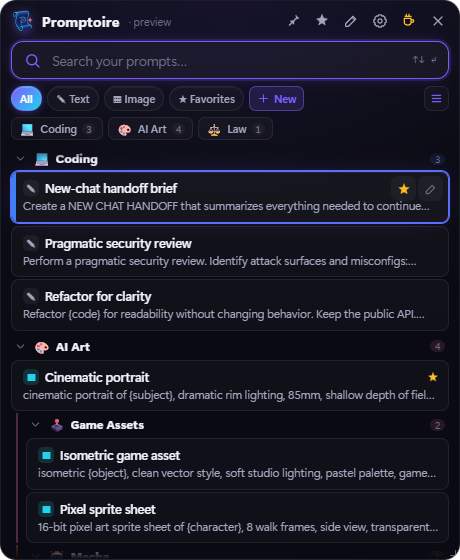
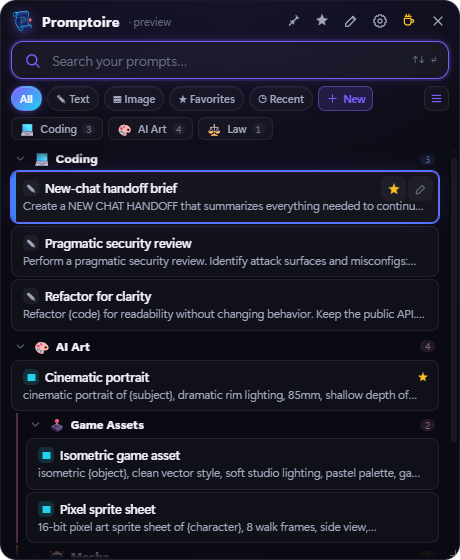
Release Promptoire 2.5.0

diff --git a/promptoire_app/web/js/bridge.js b/promptoire_app/web/js/bridge.js
@@ -63,12 +63,12 @@
 
   const mockCats = [
     { id: "cat_code", name: "Coding", icon: "💻", color: "#3b82f6", collapsed:false, subcategories:[], prompts: [
-      { id: mkId("handoff"), type:"text", title:"New-chat handoff brief", prompt:"Create a NEW CHAT HANDOFF that summarizes everything needed to continue immediately: objective, current state, constraints, decisions, key files/paths, commands to run, known bugs, and next steps in priority order.", tags:["workflow","context"], note:"", favorite:true, uses:12 },
+      { id: mkId("handoff"), type:"text", title:"New-chat handoff brief", prompt:"Create a NEW CHAT HANDOFF that summarizes everything needed to continue immediately: objective, current state, constraints, decisions, key files/paths, commands to run, known bugs, and next steps in priority order.", tags:["workflow","context"], note:"", favorite:true, uses:12, last_used:"2026-08-02T04:40:00+00:00" },
       { id: mkId("secrev"), type:"text", title:"Pragmatic security review", prompt:"Perform a pragmatic security review. Identify attack surfaces and misconfigs: injection, authz/authn flaws, secrets leakage, insecure defaults, dependency risks, PII handling. Provide prioritized, minimal-scope fixes.", tags:["security"], note:"", favorite:false, uses:5 },
       { id: mkId("refactor"), type:"text", title:"Refactor for clarity", prompt:"Refactor {code} for readability without changing behavior. Keep the public API. Explain each change in one line.", tags:["refactor"], note:"", favorite:false, uses:2 },
     ]},
     { id: "cat_art", name: "AI Art", icon: "🎨", color: "#f472b6", collapsed:false, prompts: [
-      { id: mkId("cinematic"), type:"image", title:"Cinematic portrait", prompt:"cinematic portrait of {subject}, dramatic rim lighting, 85mm, shallow depth of field, film grain, moody color grade", negative:"blurry, lowres, extra fingers, watermark", model:"Midjourney v6", params:"--ar 4:5 --stylize 250", tags:["portrait","cinematic"], note:"", favorite:true, uses:9 },
+      { id: mkId("cinematic"), type:"image", title:"Cinematic portrait", prompt:"cinematic portrait of {subject}, dramatic rim lighting, 85mm, shallow depth of field, film grain, moody color grade", negative:"blurry, lowres, extra fingers, watermark", model:"Midjourney v6", params:"--ar 4:5 --stylize 250", tags:["portrait","cinematic"], note:"", favorite:true, uses:9, last_used:"2026-08-02T04:25:00+00:00" },
     ], subcategories: [
       { id: "cat_iso", name: "Game Assets", icon: "🕹", color: "", collapsed:false, subcategories:[], prompts: [
         { id: mkId("iso"), type:"image", title:"Isometric game asset", prompt:"isometric {object}, clean vector style, soft studio lighting, pastel palette, game asset, centered", negative:"text, busy background", model:"SDXL", params:"Steps: 30, CFG: 6", tags:["isometric","asset"], note:"", favorite:false, uses:3 },
@@ -79,7 +79,7 @@
       ]},
     ]},
     { id: "cat_law", name: "Law", icon: "⚖", color: "#34d399", collapsed:false, subcategories:[], prompts: [
-      { id: mkId("clause"), type:"text", title:"Contract clause explainer", prompt:"Explain the following clause in plain English, flag risks for the {party}, and suggest safer alternative language.", tags:["contracts"], note:"", favorite:false, uses:1 },
+      { id: mkId("clause"), type:"text", title:"Contract clause explainer", prompt:"Explain the following clause in plain English, flag risks for the {party}, and suggest safer alternative language.", tags:["contracts"], note:"", favorite:false, uses:1, last_used:"2026-08-01T22:10:00+00:00" },
     ]},
   ];
   const mockSettings = {
@@ -95,7 +95,7 @@
   function walk(cats, path, color){ let out=[]; path=path||[]; for(const c of cats){ const eff=c.color||color||""; const here=path.concat([c.name]); for(const p of c.prompts){ out.push({p,c,path:here,color:eff}); } if(c.subcategories) out=out.concat(walk(c.subcategories, here, eff)); } return out; }
 
   const MOCK = {
-    get_state: () => ({ ok:true, categories: mockCats, stats: stats(), version:"2.4.0-preview",
+    get_state: () => ({ ok:true, categories: mockCats, stats: stats(), version:"2.5.0-preview",
       hotkey_available:true, platform:"windows",
       settings: mockSettings }),
     search: (q="", type="all", fav=false) => {
@@ -115,7 +115,12 @@
       res.sort((a,b)=>(b.favorite?1:0)-(a.favorite?1:0));
       return { ok:true, results:res, count:res.length };
     },
-    copy_prompt: (id, resolved, keepOpen) => ({ ok:true, spring:!keepOpen, title:"Prompt" }),
+    copy_prompt: (id, resolved, keepOpen) => {
+      for(const {p} of walk(mockCats)){
+        if(p.id===id){ p.uses=(p.uses||0)+1; p.last_used=new Date().toISOString(); return {ok:true,spring:!keepOpen,title:p.title,last_used:p.last_used}; }
+      }
+      return {ok:false,error:"Prompt not found"};
+    },
     copy_text: () => ({ ok:true }),
     get_clipboard_text: () => ({ ok:true, text:"Path: AI Art > Characters > Portraits\nTitle: Cinematic portrait\nType: image\nPrompt: A dramatic 85mm portrait of {subject}, rim lighting, shallow depth of field --ar 4:5 --stylize 250\nTags: portrait, cinematic" }),
     toggle_favorite: (id) => { for(const {p} of walk(mockCats)){ if(p.id===id){ p.favorite=!p.favorite; return {ok:true,favorite:p.favorite}; } } return {ok:false}; },

diff --git a/promptoire_app/web/js/launcher.js b/promptoire_app/web/js/launcher.js
@@ -122,6 +122,7 @@
 
   function setFilter(f) {
     PR.state.filter = f;
+    if (f === "recent") PR.state.catFilter = null;
     document.querySelectorAll("#filters .chip").forEach((c) =>
       c.classList.toggle("is-active", c.dataset.filter === f));
     runSearch();
@@ -143,7 +144,34 @@
     const f = PR.state.filter;
     if (f === "text" || f === "image") return (p.type || "text") === f;
     if (f === "favorites") return !!p.favorite;
+    if (f === "recent") return !!p.last_used;
     return true;
+  }
+
+  function recentHits() {
+    const hits = [];
+    function walk(cats, path, inheritedColor) {
+      (cats || []).forEach((cat) => {
+        const color = cat.color || inheritedColor || "";
+        const here = path.concat([cat.name]);
+        (cat.prompts || []).forEach((p) => {
+          if (!p.last_used) return;
+          hits.push(Object.assign({}, p, {
+            category_id: cat.id,
+            category_name: cat.name,
+            category_color: color,
+            category_icon: cat.icon || "",
+            path: here,
+          }));
+        });
+        walk(cat.subcategories, here, color);
+      });
+    }
+    walk(PR.state.categories, [], "");
+    hits.sort((a, b) =>
+      String(b.last_used).localeCompare(String(a.last_used)) ||
+      String(a.title || "").localeCompare(String(b.title || "")));
+    return hits;
   }
 
   // ids of a category and all its descendants (for search-mode cat filtering)
@@ -166,6 +194,12 @@
     const { query, filter } = PR.state;
     renderRail();
     if (!query.trim()) {
+      if (filter === "recent") {
+        PR.state.results = recentHits();
+        PR.state.selected = 0;
+        renderFlat();
+        return;
+      }
       renderBrowse();
       return;
     }
@@ -173,6 +207,11 @@
     const typeFilter = filter === "text" || filter === "image" ? filter : "all";
     const res = await PR.bridge.call("search", query, typeFilter, favOnly, "");
     let hits = (res && res.results) || [];
+    if (filter === "recent") {
+      hits = hits.filter((h) => h.last_used).sort((a, b) =>
+        String(b.last_used).localeCompare(String(a.last_used)) ||
+        String(a.title || "").localeCompare(String(b.title || "")));
+    }
     if (PR.state.catFilter) {
       const top = findTopCat(PR.state.catFilter);
       if (top) {
@@ -190,8 +229,9 @@
   function renderRail() {
     const cats = PR.state.categories || [];
     railEl.innerHTML = "";
-    railEl.classList.toggle("hidden", cats.length < 2);
-    if (cats.length < 2) return;
+    const hidden = cats.length < 2 || PR.state.filter === "recent";
+    railEl.classList.toggle("hidden", hidden);
+    if (hidden) return;
     cats.forEach((c) => {
       const n = countTree(c);
       const chip = el("button", {
@@ -316,6 +356,13 @@
   }
 
   function emptyState(query) {
+    if (PR.state.filter === "recent" && !query) {
+      return el("div", { class: "empty" }, [
+        el("div", { class: "emoji", text: "◷" }),
+        el("h3", { text: "No recent prompts yet" }),
+        el("p", { text: "Copied prompts appear here automatically, newest first." }),
+      ]);
+    }
     if (PR.state.filter === "favorites" && !query) {
       return el("div", { class: "empty" }, [
         el("div", { class: "emoji", text: "★" }),
@@ -433,8 +480,11 @@
   async function doCopy(id, text, node, title) {
     const r = await PR.bridge.call("copy_prompt", id, text, PR.state.pinned);
     if (r && r.ok) {
+      const local = PR.findPrompt(id);
+      if (local && r.last_used) local.p.last_used = r.last_used;
       if (node) { node.classList.add("flash"); setTimeout(() => node && node.classList.remove("flash"), 520); }
       toast("Copied “" + (title || "prompt") + "”");
+      if (PR.state.filter === "recent" && PR.state.pinned) runSearch(false);
     } else {
       toast((r && r.error) || "Copy failed", { bad: true });
     }

diff --git a/docs/smartscreen.html b/docs/smartscreen.html
@@ -1,7 +1,7 @@
 <!doctype html><html lang="en"><head><meta charset="utf-8"><meta name="viewport" content="width=device-width,initial-scale=1"><title>Windows trust and SmartScreen — Promptoire</title><meta name="description" content="How to verify Promptoire releases and what Windows SmartScreen warnings mean."><link rel="icon" href="data:,"><link rel="stylesheet" href="styles.css"></head>
 <body class="doc-page"><header class="site-header"><a class="brand" href="index.html"><span class="brand-mark">P</span><span>Promptoire</span></a><nav><a href="index.html">← Website</a><a href="https://github.com/diddlysquatt/Promptoire">GitHub</a></nav></header>
 <main class="doc-shell wrap"><div class="eyebrow"><span></span> Windows trust</div><h1>Verify first.<br><em>Then run.</em></h1><p class="doc-intro">Windows may show “Unknown publisher” for an unsigned Promptoire release. That warning reflects missing reputation, not a finding that the app is malicious.</p>
-<section><h2>Verify the release</h2><ol><li>Download only from <a href="https://github.com/diddlysquatt/Promptoire/releases/latest">the official GitHub release</a>.</li><li>Keep the ZIP and its published <code>.sha256.txt</code> file together.</li><li>Run the command below and confirm the hashes match exactly.</li></ol><pre><code>Get-FileHash .\Promptoire-2.4.0-windows-x64.zip -Algorithm SHA256</code></pre></section>
+<section><h2>Verify the release</h2><ol><li>Download only from <a href="https://github.com/diddlysquatt/Promptoire/releases/latest">the official GitHub release</a>.</li><li>Keep the ZIP and its published <code>.sha256</code> file together.</li><li>Run the command below and confirm the hashes match exactly.</li></ol><pre><code>Get-FileHash .\Promptoire-2.5.0-windows-x64.zip -Algorithm SHA256</code></pre></section>
 <section><h2>Why the warning appears</h2><p>SmartScreen evaluates the reputation of both a downloaded file and its signing publisher. A new unsigned file starts without either. Self-signing does not help public users, and Microsoft no longer gives EV certificates an automatic first-download bypass.</p></section>
 <section><h2>The realistic paths</h2><div class="option-grid"><article><b>Microsoft Store + MSIX</b><span>Best way to fully avoid download warnings; requires a separate Store package.</span></article><article><b>Microsoft Artifact Signing</b><span>Verified publisher for about $9.99/month; initial warnings can still occur.</span></article><article><b>SignPath Foundation</b><span>Potentially free for accepted, public, released, actively maintained open-source projects.</span></article><article><b>Checksummed GitHub release</b><span>Honest and workable for the first community launch, but does not remove SmartScreen.</span></article></div></section>
 <section><h2>Promptoire's launch path</h2><div class="doc-callout">Launch transparently with source and checksums, then apply for free SignPath Foundation signing after the project has a public release and verifiable history.</div></section>

diff --git a/promptoire_app/web/js/components.js b/promptoire_app/web/js/components.js
@@ -76,13 +76,22 @@
   function toast(message, opts) {
     opts = opts || {};
     const host = document.getElementById("toastHost");
-    const t = el("div", { class: "toast" + (opts.bad ? " bad" : "") }, [
+    const t = el("div", { class: "toast" + (opts.bad ? " bad" : ""), role: "status" }, [
       el("span", { class: "dot" }),
       el("span", { text: message }),
     ]);
     if (opts.undo) {
-      const u = el("a", { class: "undo", text: "Undo", href: "#" });
-      u.addEventListener("click", (e) => { e.preventDefault(); opts.undo(); dismiss(); });
+      const u = el("button", { class: "undo", text: "Undo", type: "button" });
+      u.addEventListener("click", async () => {
+        u.disabled = true;
+        try {
+          if (await opts.undo() === false) { u.disabled = false; return; }
+          dismiss();
+        } catch (e) {
+          u.disabled = false;
+          toast("Could not restore that prompt", { bad: true });
+        }
+      });
       t.appendChild(u);
     }
     host.appendChild(t);
@@ -92,7 +101,7 @@
       t.classList.add("out");
       setTimeout(() => t.remove(), 220);
     }
-    timer = setTimeout(dismiss, opts.duration || (opts.undo ? 5000 : 2200));
+    timer = setTimeout(dismiss, opts.duration || (opts.undo ? 12000 : 2200));
     return dismiss;
   }
 

diff --git a/promptoire_app/web/css/components.css b/promptoire_app/web/css/components.css
@@ -203,7 +203,13 @@ html[data-density="titles"] .card-meta { display: none; }
 @keyframes toast-out { to { opacity: 0; transform: translateY(8px); } }
 .toast .dot { width: 7px; height: 7px; border-radius: 99px; background: var(--good); flex: 0 0 auto; }
 .toast.bad .dot { background: var(--bad); }
-.toast .undo { margin-left: 4px; color: var(--accent); font-weight: 700; }
+.toast .undo {
+  margin-left: 2px; padding: 3px 7px; border-radius: 6px;
+  color: var(--accent); font: inherit; font-size: 11.5px; font-weight: 750;
+  background: var(--accent-soft); border: 1px solid color-mix(in srgb, var(--accent) 42%, var(--border));
+}
+.toast .undo:hover { color: var(--fg); border-color: var(--accent); }
+.toast .undo:disabled { opacity: 0.55; cursor: wait; }
 
 /* ---- modal -------------------------------------------------------------- */
 .modal-host {

diff --git a/promptoire_app/web/js/app.js b/promptoire_app/web/js/app.js
@@ -211,9 +211,9 @@
       else if (mod && e.key === "i") { e.preventDefault(); showView(PR.state.view === "bulk" ? "launcher" : "bulk"); }
       else if (mod && e.key === ",") { e.preventDefault(); showView(PR.state.view === "settings" ? "launcher" : "settings"); }
       else if (mod && e.key === "n") { e.preventDefault(); PR.editor.newPrompt(null); }
-      else if (mod && "1234".includes(e.key) && PR.state.view === "launcher") {
+      else if (mod && "12345".includes(e.key) && PR.state.view === "launcher") {
         e.preventDefault();
-        PR.launcher.setFilter(["all", "text", "image", "favorites"]["1234".indexOf(e.key)]);
+        PR.launcher.setFilter(["all", "text", "image", "favorites", "recent"]["12345".indexOf(e.key)]);
       }
     });
   }

diff --git a/promptoire_app/web/js/settings.js b/promptoire_app/web/js/settings.js
@@ -295,7 +295,7 @@
     s.appendChild(el("div", { class: "about" }, [
       el("img", { class: "logo-big", src: "assets/tray.png", alt: "Promptoire magical scroll" }),
       el("div", { style: { fontWeight: "700", fontSize: "15px" }, text: "Promptoire" }),
-      el("div", { class: "ver", text: "v" + (PR.state.version || "2.4.0") + " · local-first · open source" }),
+      el("div", { class: "ver", text: "v" + (PR.state.version || "2.5.0") + " · local-first · open source" }),
       el("div", { class: "creator-credit", text: "Brought to you by Stoned Ape" }),
       el("div", { class: "tagline", text: "A fast, beautiful home for your text and image prompts — with one-click AI bulk-improve." }),
       el("div", { class: "about-actions" }, [

diff --git a/docs/index.html b/docs/index.html
@@ -115,7 +115,7 @@
         </div>
       </div>
       <div class="download-card">
-        <span class="version">Promptoire 2.4.0</span><h2>Ready when you are.</h2>
+        <span class="version">Promptoire 2.5.0</span><h2>Ready when you are.</h2>
         <p>Download the portable Windows ZIP, extract it somewhere permanent, and run <code>Promptoire.exe</code>.</p>
         <a class="button primary wide" href="https://github.com/diddlysquatt/Promptoire/releases/latest">Download latest release <span>↓</span></a>
         <p class="fine-print">Early unsigned releases may show a Windows SmartScreen warning. Verify the published SHA-256 checksum and source before choosing “Run anyway.” <a href="smartscreen.html">Why this happens</a>.</p>

diff --git a/promptoire_app/web/js/editor.js b/promptoire_app/web/js/editor.js
@@ -433,8 +433,14 @@
       if (r && r.ok) {
         await PR.app.refreshState(); render();
         toast("Deleted “" + (p.title || "prompt") + "”", { undo: async () => {
-          await PR.bridge.call("restore_prompt", cat.id, r.removed || p, index);
+          const restored = await PR.bridge.call("restore_prompt", cat.id, r.removed || p, index);
+          if (!restored || !restored.ok) {
+            toast((restored && restored.error) || "Could not restore that prompt", { bad: true });
+            return false;
+          }
           await PR.app.refreshState(); render();
+          toast("Restored “" + (p.title || "prompt") + "”");
+          return true;
         }});
       }
     });

diff --git a/promptoire_app/web/index.html b/promptoire_app/web/index.html
@@ -59,6 +59,7 @@
         <button class="chip" data-filter="text">✎ Text</button>
         <button class="chip" data-filter="image">▦ Image</button>
         <button class="chip" data-filter="favorites">★ Favorites</button>
+        <button class="chip" data-filter="recent" title="Most recently copied prompts">◷ Recent</button>
         <button class="filter-new" id="btnAdd" title="New prompt (Ctrl+N)" aria-label="New prompt">
           <svg viewBox="0 0 24 24" class="ic" aria-hidden="true"><path d="M12 5v14M5 12h14"/></svg>
           <span>New</span>

diff --git a/promptoire_app/web/js/state.js b/promptoire_app/web/js/state.js
@@ -13,7 +13,7 @@
 
     view: "launcher",       // launcher | editor | bulk | settings
     query: "",
-    filter: "all",          // all | text | image | favorites
+    filter: "all",          // all | text | image | favorites | recent
     catFilter: null,        // category id (with its subtree) or null = all
     results: [],
     selected: 0,

diff --git a/tests/test_smoke.py b/tests/test_smoke.py
@@ -312,6 +312,29 @@ def _run_checks():
     assert normal_copy.get("ok") and normal_copy.get("spring") is True, normal_copy
     assert hide_calls == ["hide"] and copied_text == ["Pinned copy", "Normal copy"], out["copy.pin_override"]
 
+    # Copy recency must survive a full save/reload; otherwise the Recent view
+    # silently resets whenever the app restarts.
+    recent_id = st["categories"][0]["prompts"][0]["id"]
+    original_clipboard_copy = clipboard.copy
+    clipboard.copy = lambda text: True
+    try:
+        recent_copy = api.copy_prompt(recent_id, keep_open=True)
+    finally:
+        clipboard.copy = original_clipboard_copy
+    app.save_library()
+    reloaded_library = PromptLibrary(app.library.path).load()
+    reloaded_prompt, _, _ = reloaded_library.find_prompt(recent_id)
+    recent_search = reloaded_library.search("")
+    recent_hit = next((hit for hit in recent_search if hit["id"] == recent_id), None)
+    out["recent.persistence"] = {
+        "response": recent_copy.get("last_used"),
+        "reloaded": (reloaded_prompt or {}).get("last_used"),
+        "search": (recent_hit or {}).get("last_used"),
+    }
+    assert recent_copy.get("ok") and recent_copy.get("last_used"), recent_copy
+    assert out["recent.persistence"]["response"] == out["recent.persistence"]["reloaded"]
+    assert out["recent.persistence"]["response"] == out["recent.persistence"]["search"]
+
     exp = api.get_export(False)
     assert exp["ok"], exp
     data = json.loads(exp["json"])
@@ -1026,6 +1049,7 @@ Question planner: Turn {notes} into prioritized interview questions.
     app_js = (Path(__file__).resolve().parents[1] / "promptoire_app" / "web" / "js" / "app.js").read_text(encoding="utf-8")
     launcher_js = (Path(__file__).resolve().parents[1] / "promptoire_app" / "web" / "js" / "launcher.js").read_text(encoding="utf-8")
     editor_js = (Path(__file__).resolve().parents[1] / "promptoire_app" / "web" / "js" / "editor.js").read_text(encoding="utf-8")
+    components_js = (Path(__file__).resolve().parents[1] / "promptoire_app" / "web" / "js" / "components.js").read_text(encoding="utf-8")
     settings_js = (Path(__file__).resolve().parents[1] / "promptoire_app" / "web" / "js" / "settings.js").read_text(encoding="utf-8")
     components_css = (Path(__file__).resolve().parents[1] / "promptoire_app" / "web" / "css" / "components.css").read_text(encoding="utf-8")
     base_css = (Path(__file__).resolve().parents[1] / "promptoire_app" / "web" / "css" / "base.css").read_text(encoding="utf-8")
@@ -1166,6 +1190,27 @@ Question planner: Turn {notes} into prioritized interview questions.
     }
     out["frontend.launcher_layout"] = launcher_layout
     assert all(launcher_layout.values()), launcher_layout
+    recent_contract = {
+        "chip": 'data-filter="recent"' in launcher_html and "◷ Recent" in launcher_html,
+        "newest_first": "function recentHits()" in launcher_js and "String(b.last_used).localeCompare" in launcher_js,
+        "copied_only": 'if (!p.last_used) return;' in launcher_js,
+        "searchable": 'hits = hits.filter((h) => h.last_used).sort' in launcher_js,
+        "copy_updates_state": "local.p.last_used = r.last_used" in launcher_js,
+        "keyboard_shortcut": '"all", "text", "image", "favorites", "recent"' in app_js,
+    }
+    out["frontend.recent_filter"] = recent_contract
+    assert all(recent_contract.values()), recent_contract
+    delete_prompt_block = editor_js.split("function deletePrompt", 1)[1].split("function deleteCategory", 1)[0]
+    undo_delete_contract = {
+        "no_confirmation": "confirmDialog" not in delete_prompt_block,
+        "immediate_delete": 'PR.bridge.call("delete_prompt", p.id)' in delete_prompt_block,
+        "exact_restore": 'PR.bridge.call("restore_prompt", cat.id, r.removed || p, index)' in delete_prompt_block,
+        "small_button": 'el("button", { class: "undo"' in components_js and ".toast .undo" in components_css,
+        "useful_window": "opts.undo ? 12000" in components_js,
+        "restore_failure_visible": "Could not restore that prompt" in delete_prompt_block,
+    }
+    out["frontend.undo_delete"] = undo_delete_contract
+    assert all(undo_delete_contract.values()), undo_delete_contract
     out["frontend.github_source_link"] = (
         "source-link" in settings_js
         and "configuredRepoUrl" in settings_js
@@ -1597,8 +1642,20 @@ Question planner: Turn {notes} into prioritized interview questions.
         reordered.get("ok") is True and destination_prompts[-1].get("id") == pid
     )
     assert out["reorder_prompt.ok"], reordered
+    delete_index = len(destination_prompts) - 1
     dele = api.delete_prompt(pid)
     out["delete.ok"] = dele["ok"]
+    restored = api.restore_prompt(target_id, dele.get("removed", {}), delete_index)
+    restored_prompt, restored_cat, _ = app.library.find_prompt(pid)
+    out["delete.undo_restore"] = (
+        restored.get("ok") is True
+        and restored_prompt is not None
+        and restored_cat is not None
+        and restored_cat.get("id") == target_id
+        and restored_cat.get("prompts", [])[delete_index].get("id") == pid
+    )
+    assert out["delete.undo_restore"], restored
+    api.delete_prompt(pid)
 
     print(json.dumps(out, indent=2, ensure_ascii=False))
     print("\nALL SMOKE CHECKS PASSED")
